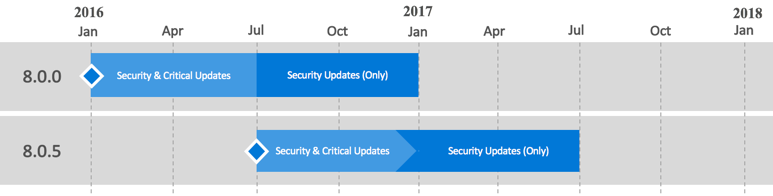
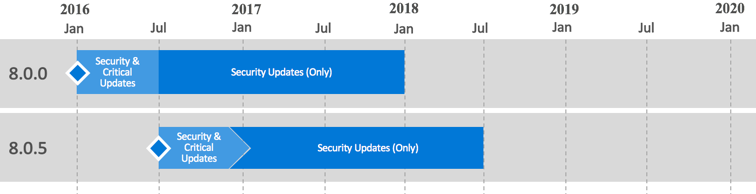
servicing support update

diff --git a/microsoft-r/rserver-servicing-support.md b/microsoft-r/rserver-servicing-support.md
@@ -43,5 +43,5 @@ _Figure 1. Example of servicing support_
 
 |Version History|Availability                       |Support End Date                  |
 |:-------------------:|:---------------------------------:|:--------------------------------:|
-|8.0.0                |1/1/2016                           |1/1/2017                          |
-|8.0.5|7/1/2016|7/1/2017|
+|8.0.0                |1/1/2016                           |1/1/2018                          |
+|8.0.5|7/1/2016|7/1/2018|
